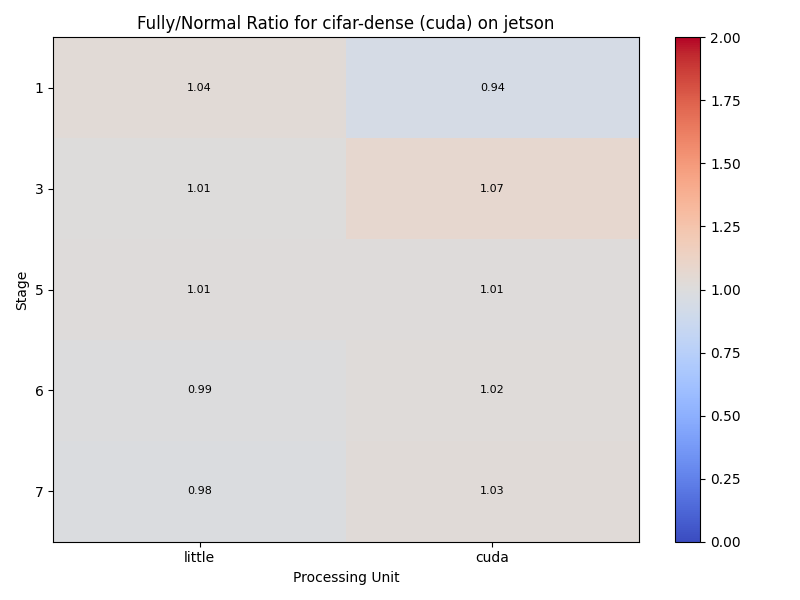
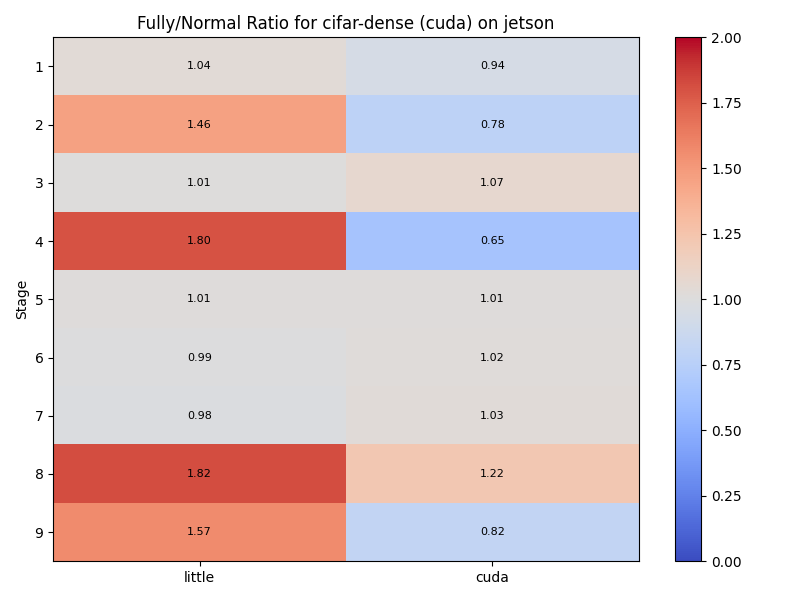
save

diff --git a/scripts/paper/figure_8_make_heatmap_all.py b/scripts/paper/figure_8_make_heatmap_all.py
@@ -12,6 +12,14 @@ BACKEND_COL_MAP = {
     "cu": "cuda",
 }
 
+# Map device ID to device name for display
+DEVICE_NAME_MAP = {
+    "3A021JEHN02756": "Google Pixel",
+    "9b034f1b": "OnePlus",
+    "jetson": "Jetson",
+    "jetsonlowpower": "Jetson (low power)",
+}
+
 
 def get_available_cores(df, backend_col):
     """Get list of available cores from the DataFrame by checking for non-zero values."""
@@ -74,7 +82,7 @@ def plot_heatmap(diff_df, device, out_folder, app, backend_col):
     ax.set_xticklabels(available_cores)
     ax.set_yticks(np.arange(len(diff_df.index)))
     ax.set_yticklabels(diff_df.index.astype(str))
-    ax.set_xlabel("Processing Unit")
+    # ax.set_xlabel("Processing Unit")
     ax.set_ylabel("Stage")
     ax.set_title(f"Fully - Normal Diff for {app} ({backend_col}) on {device}")
 
@@ -99,7 +107,7 @@ def plot_ratio_heatmap(ratio_df, device, out_folder, app, backend_col):
     ax.set_xticklabels(available_cores)
     ax.set_yticks(np.arange(len(ratio_df.index)))
     ax.set_yticklabels(ratio_df.index.astype(str))
-    ax.set_xlabel("Processing Unit")
+    # ax.set_xlabel("Processing Unit")
     ax.set_ylabel("Stage")
     ax.set_title(f"Fully/Normal Ratio for {app} ({backend_col}) on {device}")
 
@@ -120,41 +128,41 @@ def process_data_pair(folder_root, device, app, backend, exclude_stages=None):
     """Process a single device-app-backend pair and return the ratio DataFrame."""
     backend_col = BACKEND_COL_MAP[backend]
     device_folder = os.path.join(folder_root, device, app, backend)
-
+    
     if not os.path.isdir(device_folder):
         print(f"Warning: Folder {device_folder} does not exist.")
         return None, None
-
+    
     normal_csv = os.path.join(device_folder, "normal.csv")
     fully_csv = os.path.join(device_folder, "fully.csv")
-
+    
     if not os.path.exists(normal_csv) or not os.path.exists(fully_csv):
         print(f"Warning: CSV files not found in {device_folder}")
         return None, None
-
+    
     try:
         df_normal = pd.read_csv(normal_csv)
         df_fully = pd.read_csv(fully_csv)
-
+        
         # Get available cores from the data
         available_cores = get_available_cores(df_normal, backend_col)
-
+        
         mean_n, _, _ = aggregate_data(df_normal, available_cores)
         mean_f, _, _ = aggregate_data(df_fully, available_cores)
-
+        
         if exclude_stages:
             idx = mean_n.index.astype(int)
             mask = ~idx.isin(exclude_stages)
             mean_n, mean_f = mean_n[mask], mean_f[mask]
-
+        
         # Calculate ratio
         ratio = mean_f.divide(mean_n)
-
+        
         # Generate individual ratio heatmap for records
         plot_ratio_heatmap(ratio, device, device_folder, app, backend_col)
-
+        
         return ratio, f"{device}\n{app}\n{backend_col}"
-
+    
     except Exception as e:
         print(f"Error processing {device}/{app}/{backend}: {str(e)}")
         return None, None
@@ -164,7 +172,7 @@ def plot_combined_ratio_heatmaps(ratios, titles, out_folder):
     """Create a 2x3 grid of ratio heatmaps."""
     fig, axs = plt.subplots(2, 3, figsize=(18, 12))
     axs = axs.flatten()
-
+    
     for i, (ratio_df, title) in enumerate(zip(ratios, titles)):
         if ratio_df is None:
             axs[i].text(
@@ -172,38 +180,140 @@ def plot_combined_ratio_heatmaps(ratios, titles, out_folder):
             )
             axs[i].axis("off")
             continue
-
+            
         available_cores = ratio_df.columns.tolist()
         im = axs[i].imshow(
             ratio_df.values, cmap="coolwarm", aspect="auto", vmin=0, vmax=2
         )
-
+        
         axs[i].set_xticks(np.arange(len(available_cores)))
         axs[i].set_xticklabels(available_cores, rotation=45, ha="right")
         axs[i].set_yticks(np.arange(len(ratio_df.index)))
         axs[i].set_yticklabels(ratio_df.index.astype(str))
-
+        
         axs[i].set_title(title)
-
+        
         # Add text annotations
         for y in range(ratio_df.shape[0]):
             for x in range(ratio_df.shape[1]):
                 val = ratio_df.iat[y, x]
                 axs[i].text(x, y, f"{val:.2f}", ha="center", va="center", fontsize=7)
-
+    
     # Add a colorbar to the figure
     fig.subplots_adjust(right=0.9)
     cbar_ax = fig.add_axes([0.92, 0.15, 0.02, 0.7])
     cbar = fig.colorbar(im, cax=cbar_ax)
     cbar.set_label("Fully/Normal Ratio")
-
+    
     plt.suptitle("Fully/Normal Execution Time Ratio Comparison", fontsize=16)
     plt.tight_layout(rect=[0, 0, 0.9, 0.95])
-
+    
     outpath = os.path.join(out_folder, "combined_ratio_heatmaps.png")
     plt.savefig(outpath, dpi=300)
     plt.close()
     print(f"Saved combined ratio heatmaps: {outpath}")
+
+
+def aggregate_device_data(device_ratios, device_name):
+    """Aggregate ratio data for a single device across all applications."""
+    if not device_ratios or all(r is None for r in device_ratios):
+        return None
+    
+    valid_ratios = [r for r in device_ratios if r is not None]
+    if not valid_ratios:
+        return None
+    
+    # Check if all DataFrames have the same shape and indices
+    ref_ratio = valid_ratios[0]
+    ref_shape = ref_ratio.shape
+    ref_index = ref_ratio.index
+    ref_columns = ref_ratio.columns
+    
+    aligned_ratios = []
+    for ratio in valid_ratios:
+        if ratio.shape != ref_shape or not ratio.index.equals(ref_index) or not ratio.columns.equals(ref_columns):
+            # Reindex to match reference ratio
+            try:
+                ratio = ratio.reindex(index=ref_index, columns=ref_columns, fill_value=np.nan)
+            except Exception as e:
+                print(f"Warning: Could not align ratios for {device_name}: {str(e)}")
+                continue
+        aligned_ratios.append(ratio)
+    
+    if not aligned_ratios:
+        return None
+    
+    # Average the ratios
+    try:
+        avg_ratio = pd.concat(aligned_ratios).groupby(level=0).mean()
+        return avg_ratio
+    except Exception as e:
+        print(f"Error aggregating data for {device_name}: {str(e)}")
+        return None
+
+
+def plot_device_aggregated_heatmaps(device_ratios, device_names, out_folder):
+    """Create a 1x4 grid of aggregated heatmaps by device."""
+    fig, axs = plt.subplots(1, 4, figsize=(24, 6))
+    
+    min_val, max_val = 0, 2  # Default min/max values
+    
+    # Find common min/max for better comparison
+    valid_ratios = [r for r in device_ratios if r is not None]
+    if valid_ratios:
+        all_values = np.concatenate([r.values.flatten() for r in valid_ratios])
+        all_values = all_values[~np.isnan(all_values)]
+        if len(all_values) > 0:
+            min_val = max(0, np.percentile(all_values, 5))
+            max_val = min(2, np.percentile(all_values, 95))
+    
+    for i, (ratio_df, device_name) in enumerate(zip(device_ratios, device_names)):
+        if ratio_df is None:
+            axs[i].text(
+                0.5, 0.5, f"No data for\n{device_name}", 
+                ha="center", va="center", fontsize=18
+            )
+            axs[i].axis("off")
+            continue
+            
+        available_cores = ratio_df.columns.tolist()
+        im = axs[i].imshow(
+            ratio_df.values, cmap="coolwarm", aspect="auto", vmin=min_val, vmax=max_val
+        )
+        
+        axs[i].set_xticks(np.arange(len(available_cores)))
+        axs[i].set_xticklabels(available_cores, rotation=45, ha="right", fontsize=16)
+        axs[i].set_yticks(np.arange(len(ratio_df.index)))
+        axs[i].set_yticklabels(ratio_df.index.astype(str), fontsize=16)
+        
+        # Add axis labels with large fonts
+        # axs[i].set_xlabel("Processing Unit", fontsize=18)
+        if i == 0:  # Only add y-label to the first subplot to save space
+            axs[i].set_ylabel("Stage", fontsize=18)
+        
+        axs[i].set_title(f"{device_name}", fontsize=20)
+        
+        # Add text annotations
+        for y in range(ratio_df.shape[0]):
+            for x in range(ratio_df.shape[1]):
+                val = ratio_df.iat[y, x]
+                if not np.isnan(val):
+                    axs[i].text(x, y, f"{val:.2f}", ha="center", va="center", fontsize=14)
+    
+    # Add a colorbar to the figure
+    fig.subplots_adjust(right=0.92)
+    cbar_ax = fig.add_axes([0.93, 0.15, 0.01, 0.7])
+    cbar = fig.colorbar(im, cax=cbar_ax)
+    cbar.set_label("Fully/Normal Ratio", fontsize=18)
+    cbar.ax.tick_params(labelsize=16)  # Larger tick labels on colorbar
+    
+    plt.suptitle("Fully/Normal Execution Time Ratio by Device", fontsize=22)
+    plt.tight_layout(rect=[0, 0, 0.92, 0.95])
+    
+    outpath = os.path.join(out_folder, "device_aggregated_heatmaps.png")
+    plt.savefig(outpath, dpi=300)
+    plt.close()
+    print(f"Saved device aggregated heatmaps: {outpath}")
 
 
 def main():
@@ -225,9 +335,9 @@ def main():
     )
 
     args = parser.parse_args()
-
+    
     folder_root = args.log_folder
-
+    
     # Parse excluded stages
     exclude = []
     if args.exclude_stages:
@@ -237,27 +347,46 @@ def main():
         except ValueError:
             print(f"Invalid --exclude_stages: {args.exclude_stages}")
             sys.exit(1)
-
-    # Hardcoded 2x3 grid of device-app-backend pairs
-    pairs = [
-        ("3A021JEHN02756", "cifar-sparse", "vk"),
-        ("3A021JEHN02756", "cifar-dense", "vk"),
-        ("3A021JEHN02756", "tree", "vk"),
-        ("9b034f1b", "cifar-sparse", "vk"),
-        ("9b034f1b", "cifar-dense", "vk"),
-        ("9b034f1b", "tree", "vk"),
-    ]
-
-    ratios = []
-    titles = []
-
-    for device, app, backend in pairs:
-        ratio_df, title = process_data_pair(folder_root, device, app, backend, exclude)
-        ratios.append(ratio_df)
-        titles.append(title)
-
-    # Create combined figure
-    plot_combined_ratio_heatmaps(ratios, titles, folder_root)
+    
+    # Define device-application-backend combinations
+    devices_mapping = {
+        "3A021JEHN02756": ["cifar-sparse", "cifar-dense", "tree"],  # Pixel
+        "9b034f1b": ["cifar-sparse", "cifar-dense", "tree"],        # S22
+        "jetson": ["cifar-sparse", "cifar-dense", "tree"],          # Jetson
+        "jetsonlowpower": ["cifar-sparse", "cifar-dense", "tree"]       # Jetson Low Power
+    }
+    
+    # Backend to use for each device
+    device_backends = {
+        "3A021JEHN02756": "vk",  # Pixel uses Vulkan
+        "9b034f1b": "vk",        # S22 uses Vulkan
+        "jetson": "cu",          # Jetson uses CUDA
+        "jetsonlowpower": "cu"       # Jetson Low Power uses CUDA
+    }
+    
+    # Store ratios by device
+    device_all_ratios = {device: [] for device in devices_mapping.keys()}
+    
+    # Process all device-app-backend combinations
+    for device, apps in devices_mapping.items():
+        backend = device_backends[device]
+        for app in apps:
+            ratio_df, _ = process_data_pair(folder_root, device, app, backend, exclude)
+            if ratio_df is not None:
+                device_all_ratios[device].append(ratio_df)
+    
+    # Aggregate ratios by device
+    aggregated_device_ratios = []
+    device_display_names = []
+    
+    for device, ratios in device_all_ratios.items():
+        display_name = DEVICE_NAME_MAP.get(device, device)
+        device_display_names.append(display_name)
+        agg_ratio = aggregate_device_data(ratios, display_name)
+        aggregated_device_ratios.append(agg_ratio)
+    
+    # Create aggregated device heatmap
+    plot_device_aggregated_heatmaps(aggregated_device_ratios, device_display_names, folder_root)
 
 
 if __name__ == "__main__":
